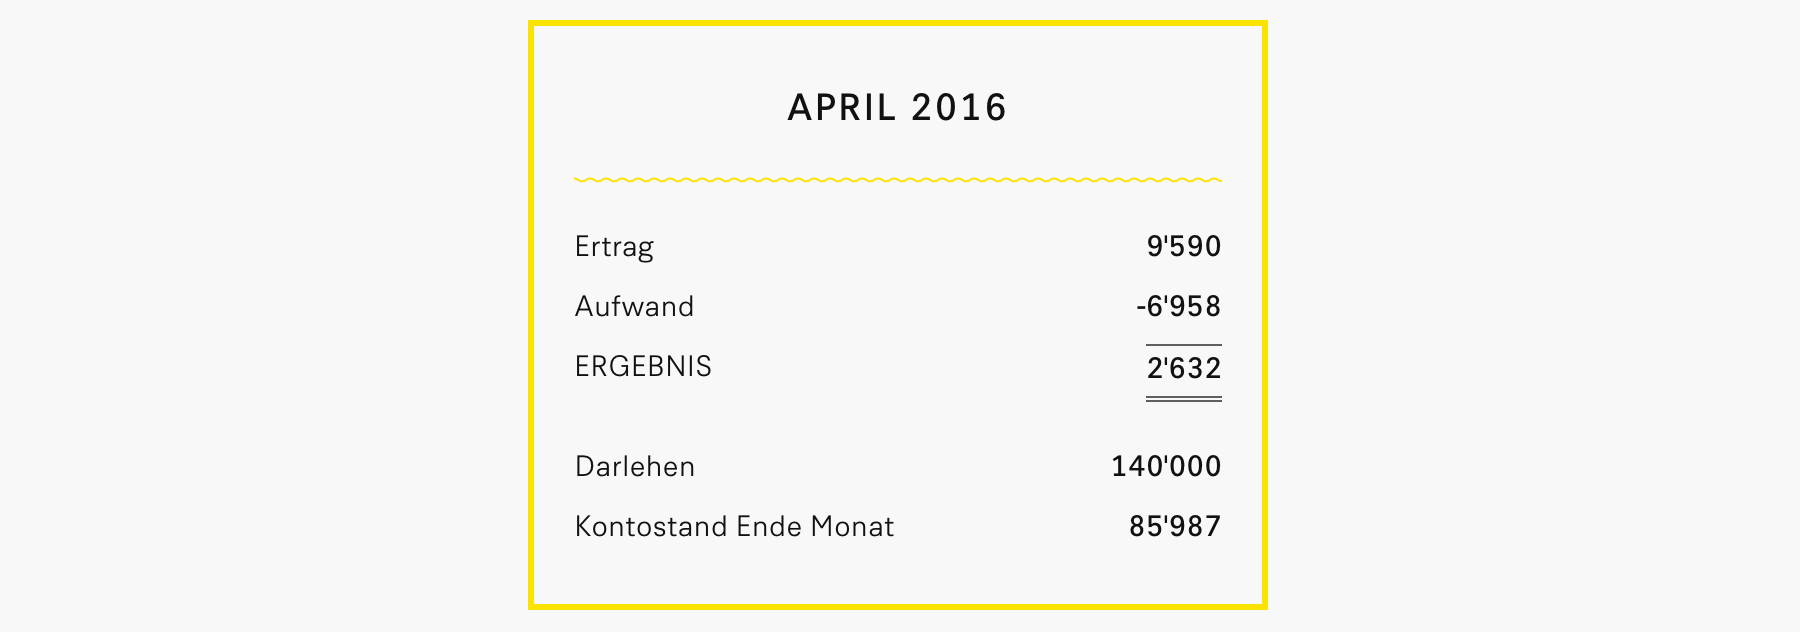
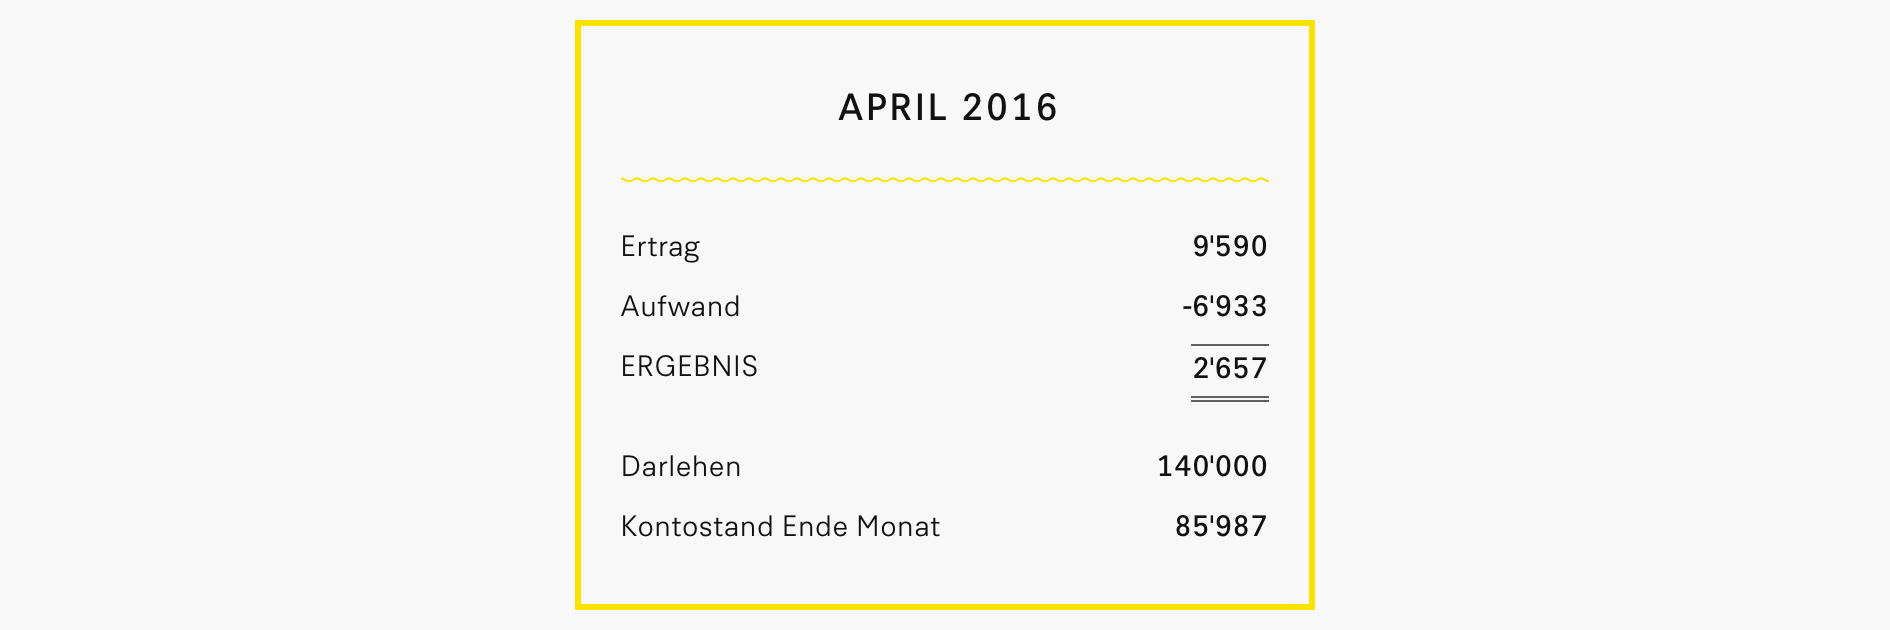
Überarbeitung Blogeintrag

Changed region(s): [[0.28, 0.0302, 0.7156, 0.9952], [0.4356, 0.1508, 0.56, 0.2111]]

diff --git a/content/blog/finanzen-effinger-coworking-community/index.md b/content/blog/finanzen-effinger-coworking-community/index.md
@@ -5,7 +5,6 @@ description = "Mit Spannung haben wir die Finanzzahlen aus dem ersten Monat im C
 image = "finanzen-april-2016.png"
 author = "Marco Jakob"
 comments = true
-draft = true
 tags = [ "Finanzen", "Coworking", "Community" ]
 +++
 
@@ -19,16 +18,16 @@ Die Finanzzahlen sind wichtig, zuerst für die Effianer, die für den Betrieb de
 
 Wenn wir schon von [Transparenz](/grundsaetze/transparenz/) reden, dann stellt sich die Frage:
 
-> "Warum machen wir die Zahlen aus unserem Verein nicht gleich für alle zugänglich?"
+> "Warum machen wir unsere Finanzzahlen nicht gleich für alle zugänglich?"
 
 Das haben wir nun umgesetzt und auf der Website eine neue Rubrik [Finanzen](/finanzen/) eingefügt (zu finden im Menu "Community").
 
 
 ## Finanzen des Vereins Coworking Community Bern
 
-Unter folgendem Link findest du die aktuellen Finanzzahlen des "Vereins Coworking Community Bern". Für jeden Monat gibt es zusätzlich eine **Detailansicht**.
+Unter folgenden Links findest du die aktuellen Finanzzahlen des "Vereins Coworking Community Bern". Es gibt eine Jahresübersicht und für jeden Monat eine Seite mit Detailinformationen.
 
-<a href="/finanzen/" class="btn btn-mod btn-medium btn-round">&rarr; Jahresübersicht 2016</a> <a href="/finanzen/verein-coworking-community-bern/2016-04/" class="btn btn-mod btn-medium btn-round">&rarr; Detailansicht April 2016</a>
+<a href="/finanzen/" class="btn btn-mod btn-medium btn-round mb-10">&rarr; Jahresübersicht 2016</a> <a href="/finanzen/verein-coworking-community-bern/2016-04/" class="btn btn-mod btn-medium btn-round mb-10">&rarr; Detailansicht April 2016</a>
 
 
 ### Detailansicht April 2016
@@ -49,9 +48,15 @@ Finanzzahlen aufbereiten und darstellen, dass sie aussagekräftig sind und von N
 
 ### Erste Einschätzungen
 
-Die [Zahlen vom April](/finanzen/verein-coworking-community-bern/2016-04/) stimmen natürlich schon optimistisch.  Aber ich halte mich zurück mit zu frühen Schlüssen. Die nächsten Monate werden zeigen, ob wir eine gute Auslastung der Coworking-Arbeitsplätze und viele externe Vermietungen des [Workshopraumes](/coworking/#workshopraum) erreichen können. Auch möchten wir das Angebot für [Community Member](/ueber/#community) erweitern, damit wir weitere Mitglieder gewinnen können.
+Wenn die Aufwandsschätzungen auch nur annähernd stimmen, können wir bereits im ersten vollen Monat mit den Einnahmen unsere Ausgaben decken. Das ist natürlich genial und äussert aussergewöhnlich für ein Startup. Ein Grund für den guten Start liegt bestimmt darin, dass wir schon fast zwei Jahre vor der Eröffnung angefangen haben, Leute zu involvieren und eine Community aufzubauen. Als wir schliesslich ein Gebäude fanden und den Vormietvertrag unterschreiben konnten, hatten wir schon ungefähr zehn verbindliche Zusagen von Coworkern für einen Teil- oder Vollzeitarbeitsplatz.
 
-Somit lasse ich die Zahlen im Moment für sich sprechen. Ich freue mich aber natürlich, über Reaktionen darauf - zum Beispiel als Kommentare unten am Blogeintrag.
+Ein Startmonat ist alleine noch nicht aussagekräftig. Erst die nächsten Monate werden zeigen, ob wir eine gute Auslastung der Coworking-Arbeitsplätze und viele externe Vermietungen des Workshopraumes halten können. Auch möchten wir das Angebot für Community Member erweitern, damit wir weiter als Netzwerk wachsen können. In der Aufbauphase waren wir etwas zurückhaltend mit der Aufnahme neuer Effianer, da wir in der hektischen Zeit als Gruppe etwas Stabilität brauchten. Nun werden wir den Kreis bald wieder öffnen und möchten aus den zahlreichen Coworkern, welche mit Zehnerabos bei uns arbeiten, weitere Effianer finden, die das Projekt "Effinger" mittragen.
+
+In der Einleitung hatte ich den Businessplan angesprochen. Ich möchte mich für den Moment noch zurückhalten mit allzu frühen Schlüssen. Zu einem späteren Zeitpunkt werden wir ausführlicher darüber schreiben, wo wir mit unseren Annahmen daneben geliegen haben.
+
+Wenn du aber bereits jetzt die aktuellen Zahlen mit dem [Businessplan](/blog/businessplan/) vergleichen möchtest, ein paar Hinweise: Im Jahr 1 im Businessplan wurde mit 14 Monaten gerechnet. Im Raumaufwand ist noch die Miete der Kaffeebar enthalten, d.h. die Jahresmiete des Coworking-Bereiches ist nur rund die Hälfte, CHF 44'897. Die Annahmen für "Unterhalt und Reparatur", "Büroaufwand" und "Sonstiger Betriebsaufwand" haben wir stark nach unten korrigiert.
+
+Somit lasse ich die Zahlen im Moment für sich sprechen. Aber ich würde mich sehr freuen über Reaktionen darauf - zum Beispiel als Kommentare unten am Blogeintrag.
 
 
 ## Warum transparente Finanzzahlen?
@@ -70,6 +75,6 @@ Viele interessieren sich dafür, wie es bei uns läuft. Das Interesse gilt natü
 
 ## Ausblick
 
-Die Zahlen, die im Moment auf der [Finanzseite](/finanzen/) veröffentlicht werden, sind von unserem "Verein Coworking Community Bern". Es wäre natürlich toll, wenn wir allgemein mehr über Finanzen reden würden, nicht nur über die vom Verein. Viele in unserer Community sind selbständig und haben eigene Unternehmen. Die Struktur der Website ist so vorbereitet, dass auch Leute aus der Community ihre Zahlen veröffentlichen können, wenn sie dies möchten.
+Die Zahlen, die im Moment auf der [Finanzseite](/finanzen/) veröffentlicht werden, sind von unserem "Verein Coworking Community Bern". Es wäre natürlich toll, wenn wir allgemein mehr über Finanzen reden würden, nicht nur über die vom Verein. Viele in unserer Community sind selbständig und haben eigene Unternehmen. Die Struktur der Website ist so vorbereitet, dass in Zukunft auch Leute aus der Community ihre Zahlen veröffentlichen können, wenn sie dies möchten.
 
 Zum Abschluss möchte ich dich **herzlich einladen, in die Diskussion mit ein zu steigen**: Wie interpretierst du die veröffentlichten Zahlen? Was ist deine Meinung zur Transparenz?

diff --git a/content/finanzen/verein-coworking-community-bern/2016-03/index.md b/content/finanzen/verein-coworking-community-bern/2016-03/index.md
@@ -54,7 +54,7 @@ info = "2 neue Memberships"
 
 [[aufwand]]
 name = "Miete Coworking-Bereich"
-betrag = 3766
+betrag = 3741
 info = "Der Mietanteil der Kaffeebar ist bereits abgezogen"
 
 [[aufwand]]

diff --git a/content/finanzen/verein-coworking-community-bern/2016-04/index.md b/content/finanzen/verein-coworking-community-bern/2016-04/index.md
@@ -57,7 +57,7 @@ info = "1 neue Membership"
 
 [[aufwand]]
 name = "Miete Coworking-Bereich"
-betrag = 3766
+betrag = 3741
 info = "Der Mietanteil der Kaffeebar ist bereits abgezogen"
 
 [[aufwand]]
